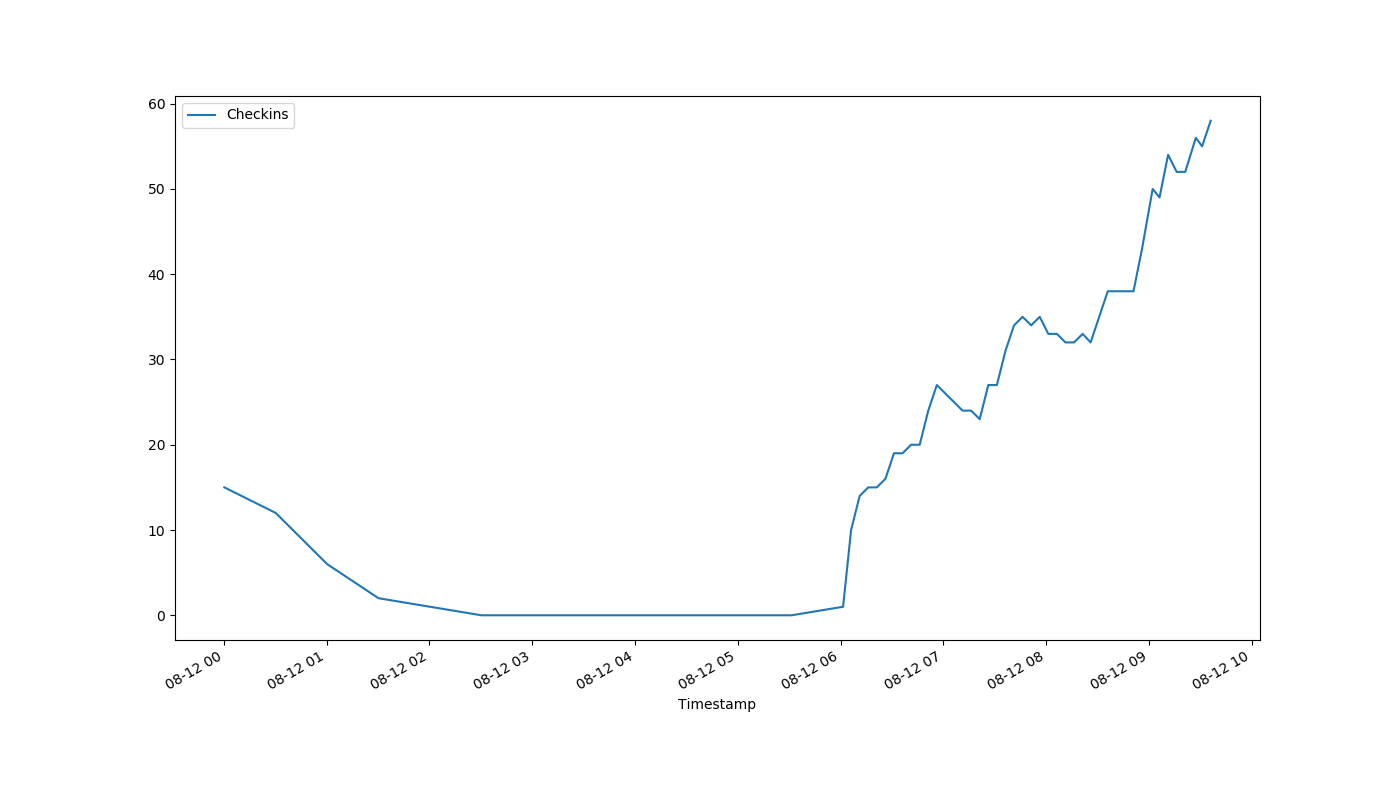
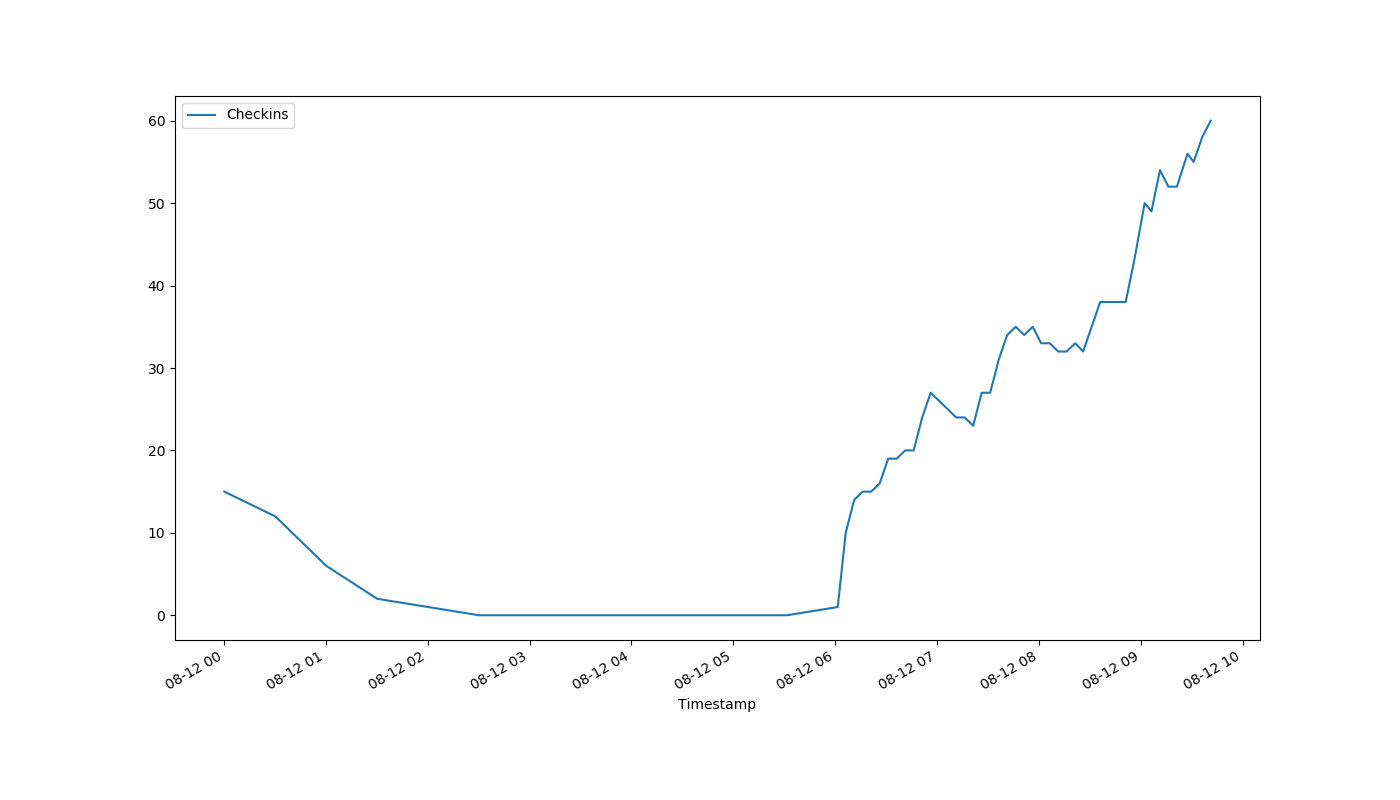
auto-Aug-12-09:41:33

diff --git a/index.html b/index.html
@@ -1,1 +1,1 @@
-<!DOCTYPE html><html><head><meta http-equiv="refresh" content="30"><link rel='stylesheet' href='holmcurrent.css'></head><body><p id='count'>58</p><div id='graph-wrap'><img id='graph' src='holmgraph-Aug-12.png'></div><p id='updated'>Last updated 09:36:18 / 09:36:05</p></body></html>
+<!DOCTYPE html><html><head><meta http-equiv="refresh" content="30"><link rel='stylesheet' href='holmcurrent.css'></head><body><p id='count'>60</p><div id='graph-wrap'><img id='graph' src='holmgraph-Aug-12.png'></div><p id='updated'>Last updated 09:41:18 / 09:41:05</p></body></html>
